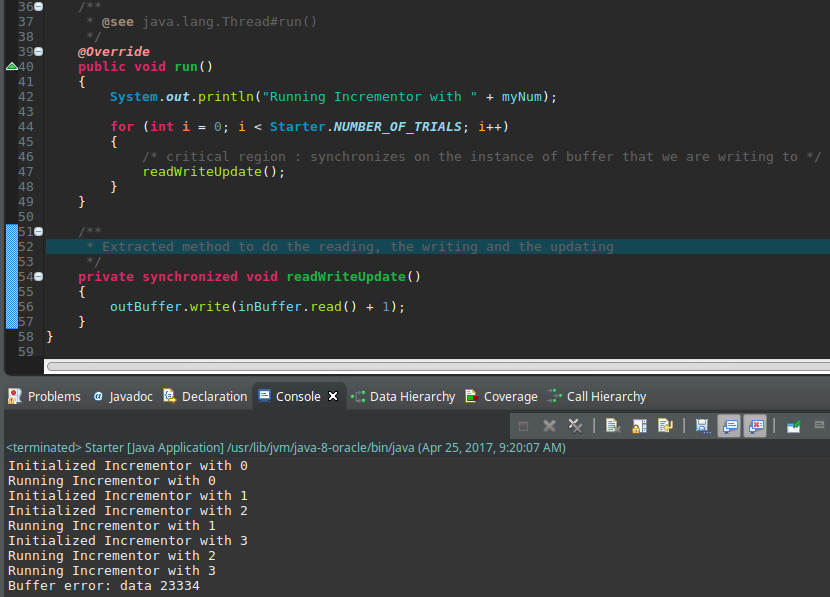
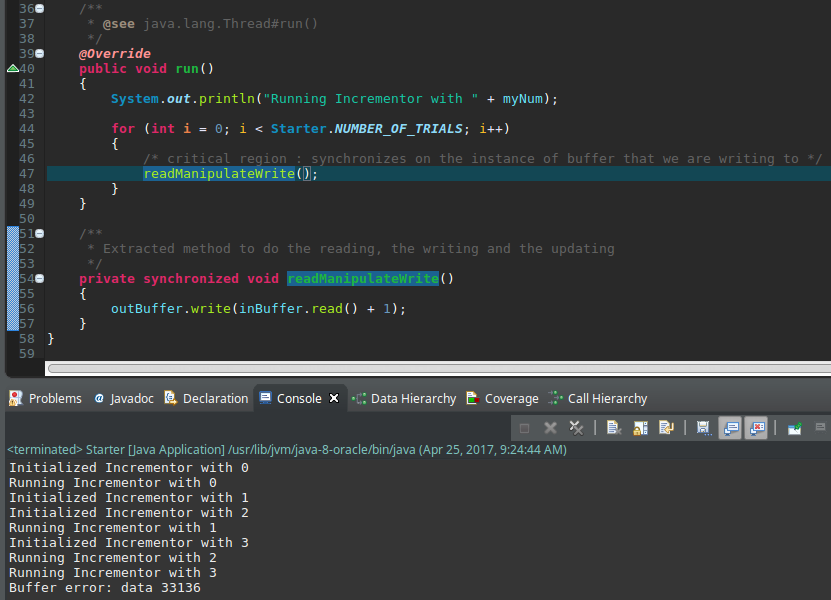
renamed reading writing and manipulation method

diff --git a/workspace-CQC_Project6/CQC_Project6/src/Incrementer.java b/workspace-CQC_Project6/CQC_Project6/src/Incrementer.java
@@ -44,14 +44,14 @@ public class Incrementer extends Thread
 		for (int i = 0; i < Starter.NUMBER_OF_TRIALS; i++)
 		{
 			/* critical region : synchronizes on the instance of buffer that we are writing to */
-			readWriteUpdate();
+			readManipulateWrite();
 		}
 	}
 
 	/**
 	 * Extracted method to do the reading, the writing and the updating
 	 */
-	private synchronized void readWriteUpdate()
+	private synchronized void readManipulateWrite()
 	{
 		outBuffer.write(inBuffer.read() + 1);
 	}
